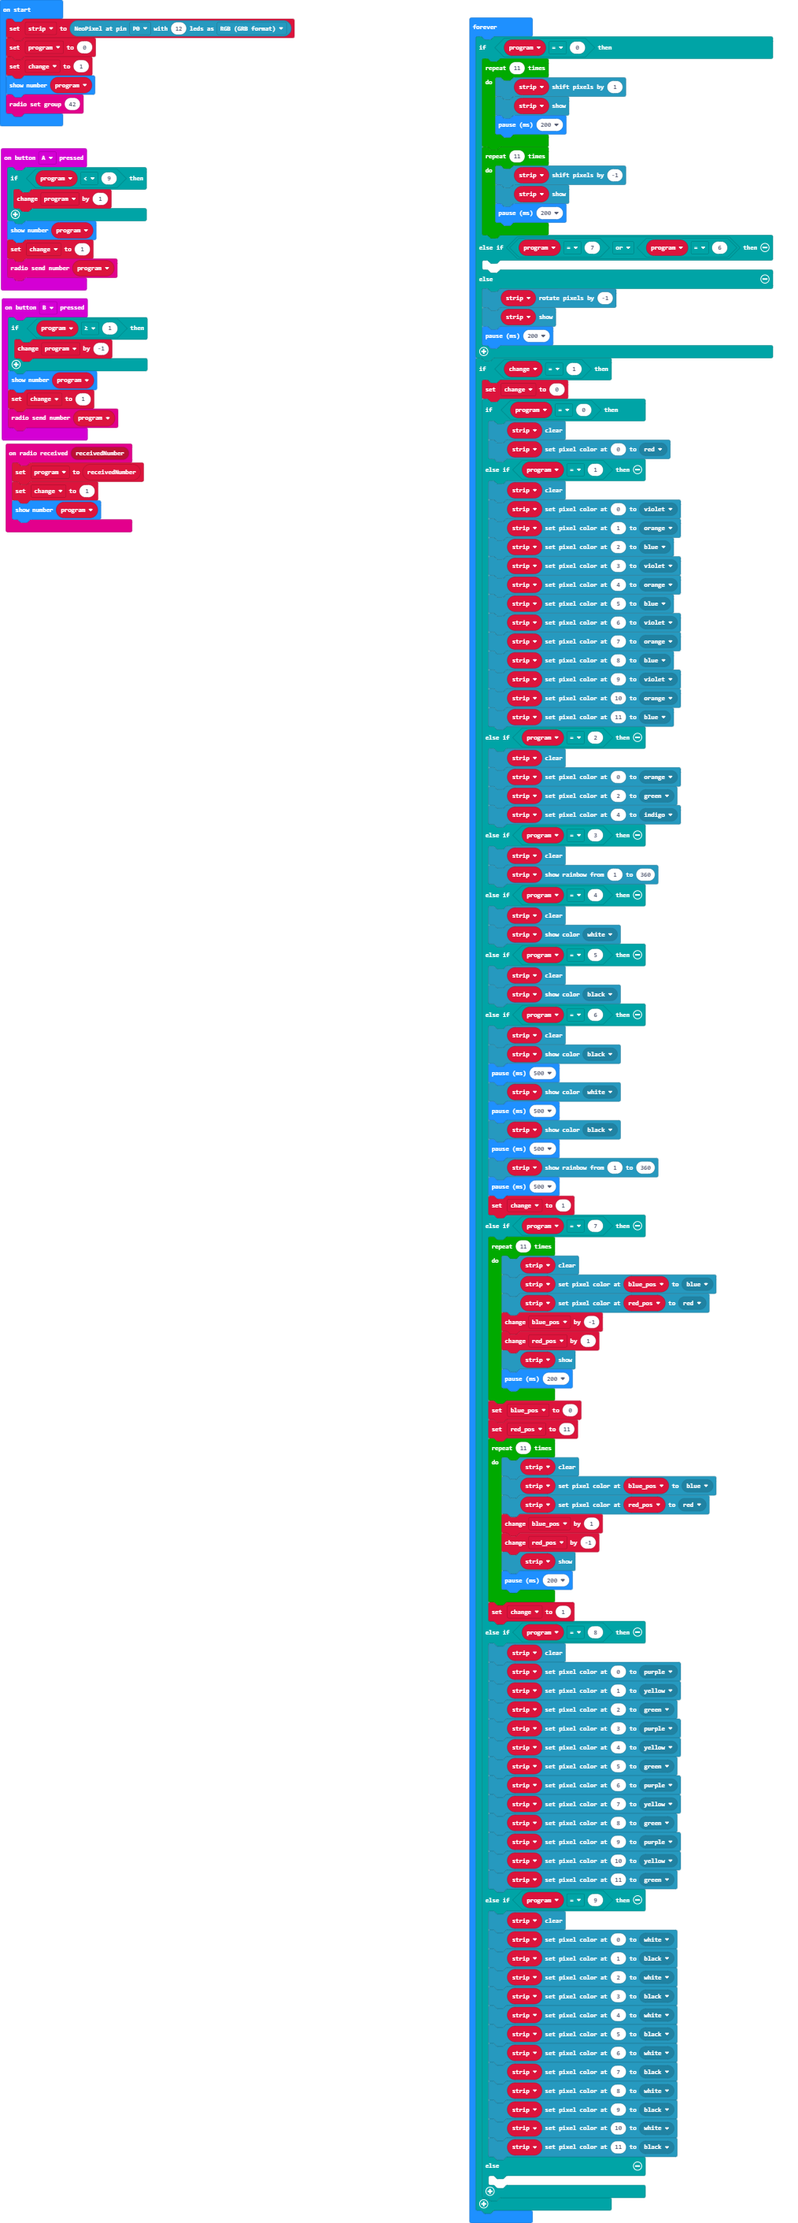
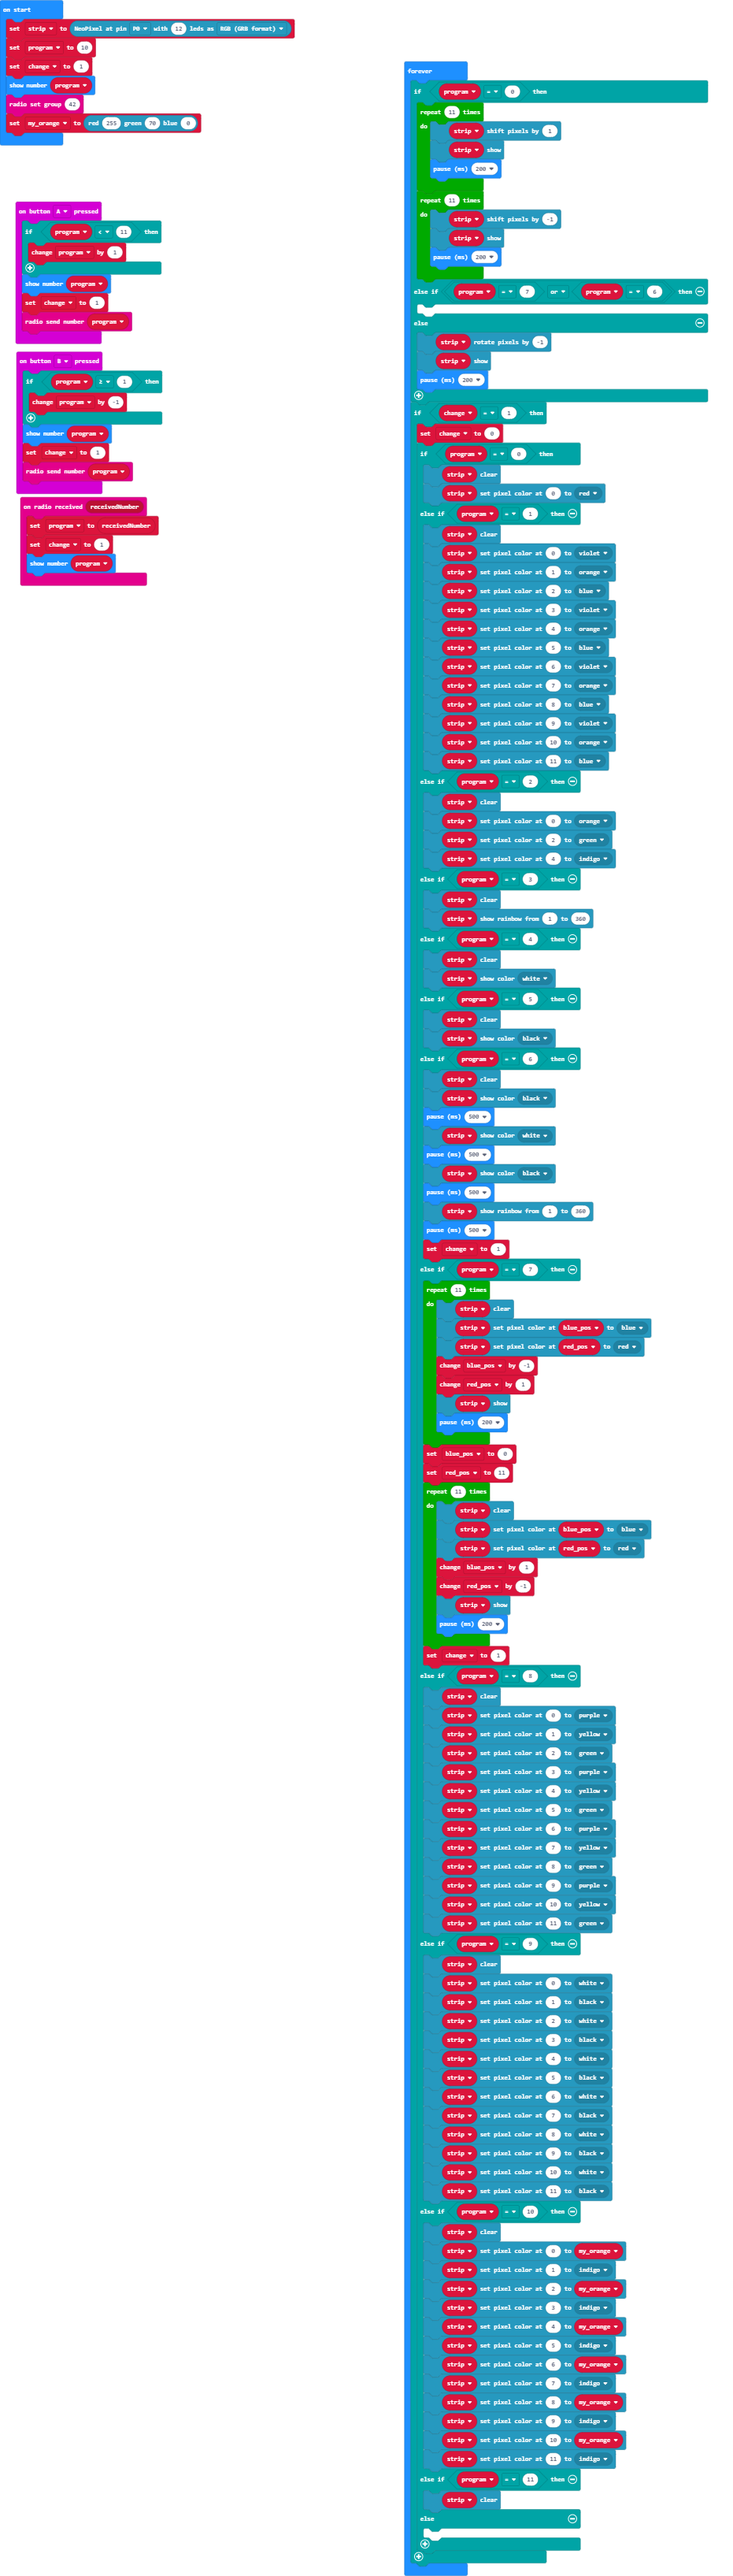
added halloween on program 10. added variable my_orange

Changed region(s): [[0.5295, 0.0, 0.9656, 1.0], [0.0, 0.0, 0.4049, 0.2495]]

diff --git a/main.ts b/main.ts
@@ -4,7 +4,7 @@ radio.onReceivedNumber(function (receivedNumber) {
     basic.showNumber(program)
 })
 input.onButtonPressed(Button.A, function () {
-    if (program < 9) {
+    if (program < 11) {
         program += 1
     }
     basic.showNumber(program)
@@ -24,10 +24,11 @@ let blue_pos = 0
 let change = 0
 let program = 0
 let strip = neopixel.create(DigitalPin.P0, 12, NeoPixelMode.RGB)
-program = 0
+program = 10
 change = 1
 basic.showNumber(program)
 radio.setGroup(42)
+let my_orange = neopixel.rgb(255, 70, 0)
 basic.forever(function () {
     if (program == 0) {
         for (let index = 0; index < 11; index++) {
@@ -141,6 +142,22 @@ basic.forever(function () {
             strip.setPixelColor(9, neopixel.colors(NeoPixelColors.Black))
             strip.setPixelColor(10, neopixel.colors(NeoPixelColors.White))
             strip.setPixelColor(11, neopixel.colors(NeoPixelColors.Black))
+        } else if (program == 10) {
+            strip.clear()
+            strip.setPixelColor(0, my_orange)
+            strip.setPixelColor(1, neopixel.colors(NeoPixelColors.Indigo))
+            strip.setPixelColor(2, my_orange)
+            strip.setPixelColor(3, neopixel.colors(NeoPixelColors.Indigo))
+            strip.setPixelColor(4, my_orange)
+            strip.setPixelColor(5, neopixel.colors(NeoPixelColors.Indigo))
+            strip.setPixelColor(6, my_orange)
+            strip.setPixelColor(7, neopixel.colors(NeoPixelColors.Indigo))
+            strip.setPixelColor(8, my_orange)
+            strip.setPixelColor(9, neopixel.colors(NeoPixelColors.Indigo))
+            strip.setPixelColor(10, my_orange)
+            strip.setPixelColor(11, neopixel.colors(NeoPixelColors.Indigo))
+        } else if (program == 11) {
+            strip.clear()
         } else {
         	
         }
